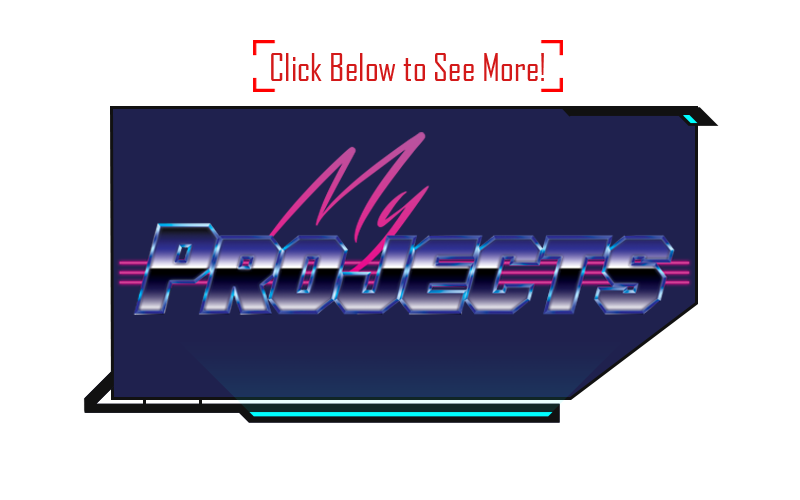
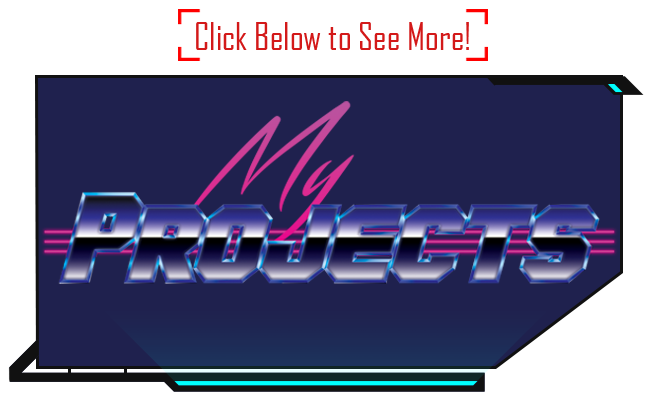
links working

diff --git a/src/components/App/App.css b/src/components/App/App.css
@@ -177,7 +177,7 @@ h2 {
 .aboutMe {
   position: absolute;
   top: 3050px;
-  left: 14%;
+  left: 15%;
   height: 300px;
   width: 400px;
   z-index: 1;
@@ -195,13 +195,13 @@ h2 {
 }
 
 .projimg {
-  width: 400px;
+  width: 350px;
   animation-name: float;
   animation-duration: 1.2s;
   animation-iteration-count: infinite;
 }
 .aboutimg {
-  width: 400px;
+  width: 350px;
   animation-name: float;
   animation-duration: 1.3s;
   animation-iteration-count: infinite;
@@ -237,6 +237,7 @@ h2 {
   height: 3000px;
   width: 100%;
   z-index: 0;
+  pointer-events:none;
 }
 
 .pbmid {
@@ -249,18 +250,7 @@ h2 {
   height: 3000px;
   width: 100%;
   z-index: 1;
-}
-
-.pbfront {
-  background-image: url(../../resources/buildingfront.png);
-  background-repeat: no-repeat;
-  position: absolute;
-  background-size: 1800px;
-  background-position-x: 250px;
-  top: 50px;
-  height: 2200px;
-  width: 100%;
-  z-index: 1;
+  pointer-events:none;
 }
 
 .pbbush {
@@ -273,6 +263,7 @@ h2 {
   height: 3000px;
   width: 100%;
   z-index: 3;
+  pointer-events:none;
 }
 
 .transition {

diff --git a/src/components/App/App.js b/src/components/App/App.js
@@ -1,4 +1,5 @@
 import React from 'react';
+import { BrowserRouter as Router, NavLink, Switch, Route, Link } from 'react-router-dom';
 import FaceBox from '../Facebox/facebox';
 import Para from '../Para/para.js'
 import aboutme from '../../resources/aboutbill2.png'
@@ -32,12 +33,13 @@ function App() {
       <div id='stars3'></div>
       </div>
 
+      <Router>
       <div className='aboutMe'>
         <div>
 
         </div>
-          <div className='infopic'>
-            <img src={aboutme} className='aboutimg'></img>
+        <div className='infopic'>
+        <Link to="/about"><img src={aboutme} className='aboutimg'></img></Link>
           </div>
       </div>
 
@@ -46,9 +48,10 @@ function App() {
 
         </div>
           <div className='infopic'>
-            <img src={myprojects} className='projimg'></img>
+            <Link to="/projects"><img src={myprojects} className='projimg'></img></Link>
           </div>
       </div>
+      </Router>
       
 
       <Transition />
